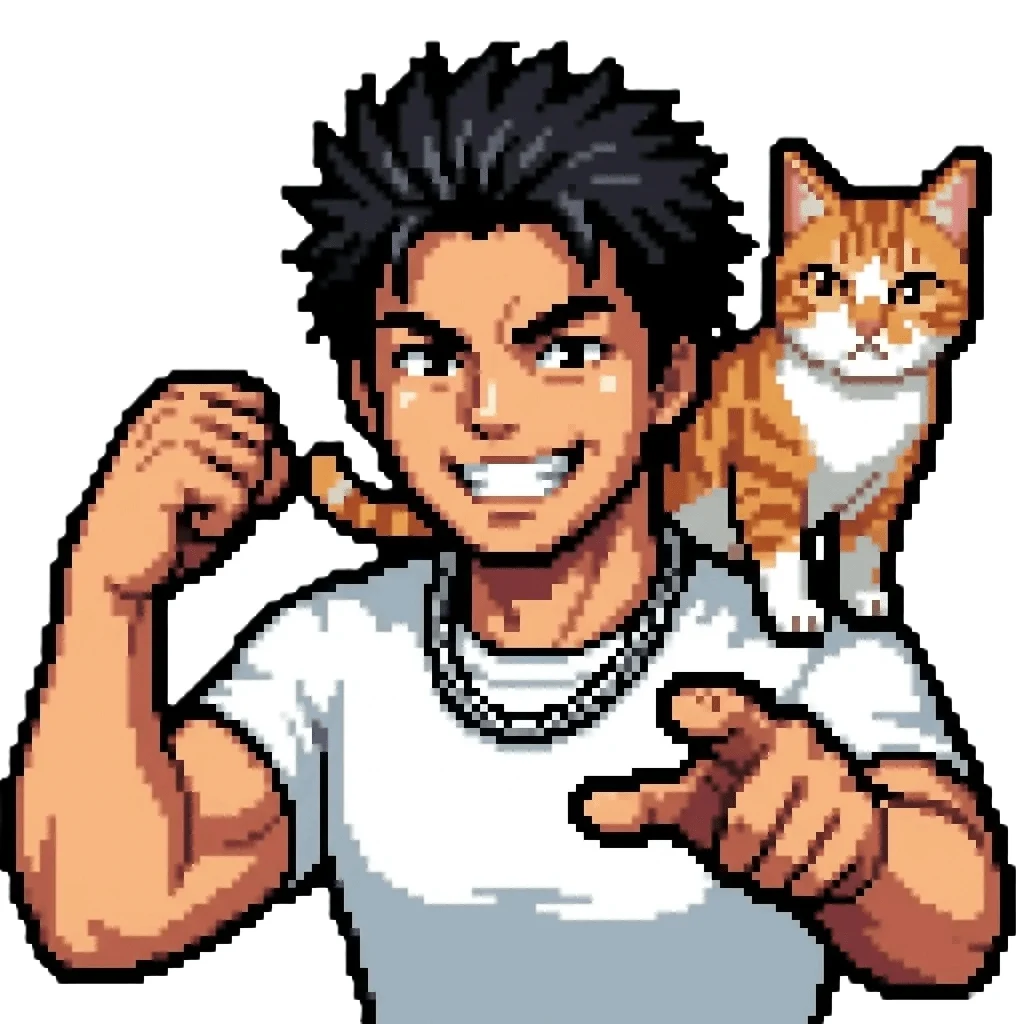
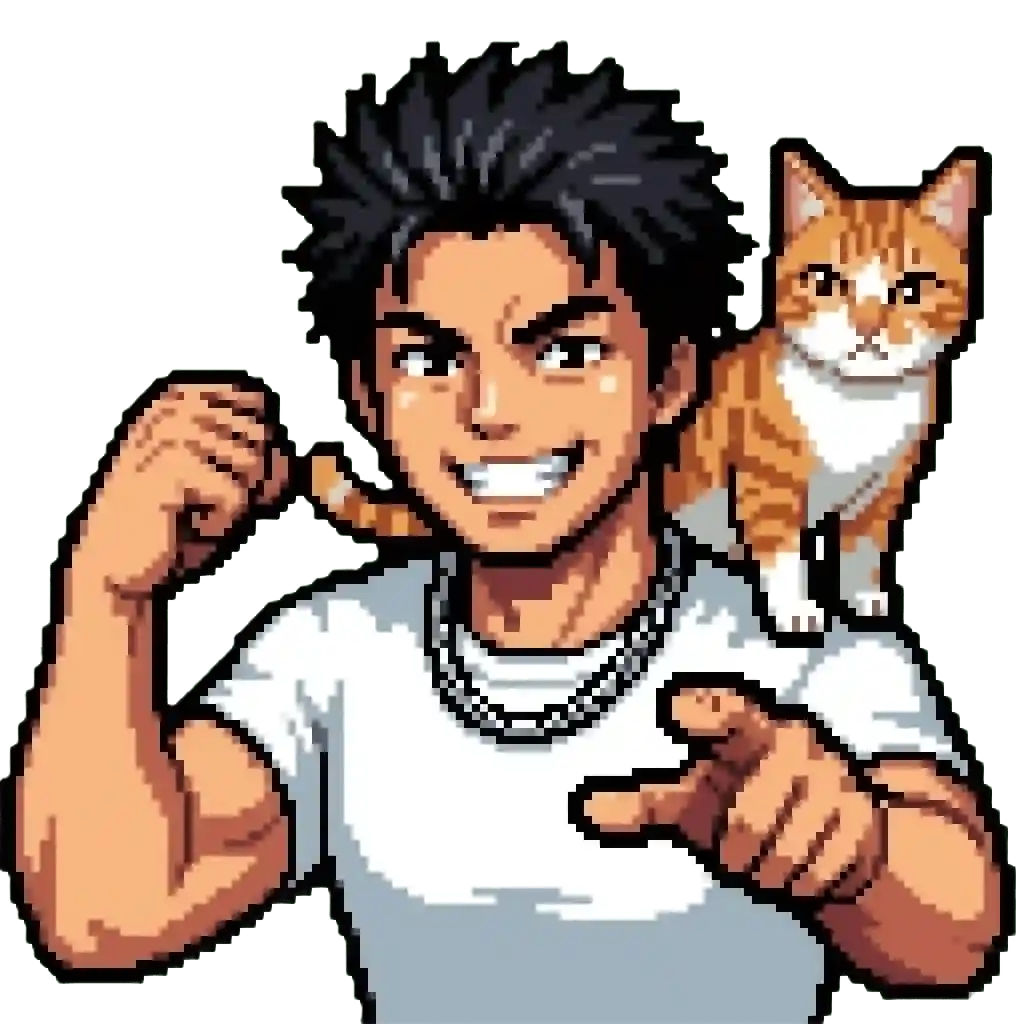
修正

diff --git a/game.js b/game.js
@@ -3229,7 +3229,7 @@ case 'dopa_juggler_skill':
                     <div class="pixel-box-gold p-4 bg-amber-950/80 w-full space-y-3">
                         <div class="flex items-center justify-between flex-wrap gap-3">
                             <div class="flex items-center gap-3">
-                                 <canvas id="profile-main-icon" width="80" height="80" class="pixel-box bg-slate-950 rounded cursor-pointer border-amber-400" onclick="openIconSelectModal()" title="クリックしてアイコン変更"></canvas>
+                                 <canvas id="profile-main-icon" width="105" height="105" class="pixel-box bg-slate-950 rounded cursor-pointer border-amber-400" onclick="openIconSelectModal()" title="クリックしてアイコン変更"></canvas>
                                 <div>
                                     <div class="flex items-center gap-2 mb-1">
                                         <input id="profile-name-input" type="text" value="${playerState.playerName || ''}" maxlength="12" class="pixel-box bg-slate-950 px-2 py-1 text-sm font-bold text-amber-300 w-36 outline-none border-amber-600">
@@ -3323,7 +3323,7 @@ case 'dopa_juggler_skill':
 
                 html += `
                     <div onclick="setProfileIcon('${c.id}')" class="pixel-box p-2 bg-slate-950 cursor-pointer flex flex-col items-center justify-center border-2 ${isSelected ? 'border-amber-400 bg-amber-950/40' : 'border-slate-700 hover:border-slate-400'}">
-                        <canvas id="icon-sel-cvs-${c.id}" width="68" height="68" class="pixel-box bg-slate-900 mb-1"></canvas>
+                        <canvas id="icon-sel-cvs-${c.id}" width="88" height="88" class="pixel-box bg-slate-900 mb-1"></canvas>
                         <span class="text-[11px] font-bold text-slate-200 truncate max-w-full">${c.name}</span>
                     </div>
                 `;
@@ -3384,7 +3384,7 @@ case 'dopa_juggler_skill':
             let html = `
                 <div class="flex flex-col items-center justify-center space-y-3 p-1 w-full max-w-sm mx-auto">
                     <div class="flex items-center gap-3 bg-slate-950 p-3 rounded border border-cyan-500/50 w-full">
-                        <canvas id="opp-profile-cvs" width="72" height="72" class="pixel-box bg-slate-900 rounded"></canvas>
+                        <canvas id="opp-profile-cvs" width="92" height="92" class="pixel-box bg-slate-900 rounded"></canvas>
                         <div class="text-left">
                             <h3 class="text-sm font-bold text-cyan-300 font-pixel">${h.opponentName}</h3>
                             <span class="text-[10px] text-slate-400 font-mono">オンライン対戦プレイヤー</span>
